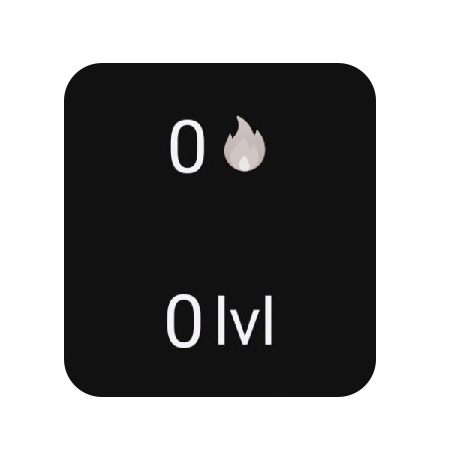
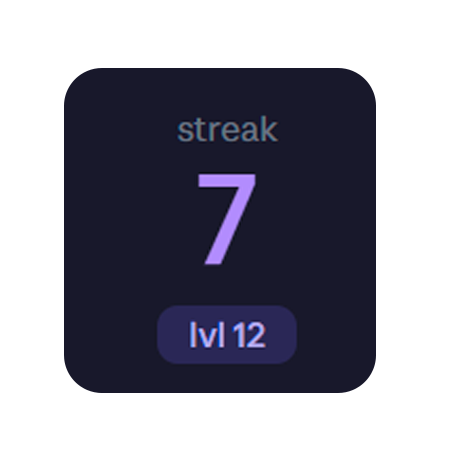
feat: добавлен перевод snackbar

diff --git a/src/shared/ui/Snackbar/ui/Snackbar.tsx b/src/shared/ui/Snackbar/ui/Snackbar.tsx
@@ -1,6 +1,7 @@
 import { View, StyleSheet } from 'react-native';
 import { Snackbar } from 'react-native-paper';
 import { useSnacbarControlStore } from '../model/snackbarControlStore';
+import i18n from '@/shared/config/i18n';
 import { useEffect } from 'react';
 
 export const AfterCompleteSnackbar = () => {
@@ -22,7 +23,7 @@ export const AfterCompleteSnackbar = () => {
         visible={isVisible}
         onDismiss={onDismissSnackBar}
         duration={3000}>
-        Задача успешно завершена!
+        {i18n.t('snackbar.taskCompleted')}
       </Snackbar>
     </View>
   );

diff --git a/src/shared/config/i18n/ru.ts b/src/shared/config/i18n/ru.ts
@@ -76,6 +76,10 @@ export default {
     locked: "Заблокировано",
   },
 
+  snackbar: {
+    taskCompleted: "Задача успешно завершена!",
+  },
+
   timer: {
     paused: "пауза",
     remaining: "осталось",

diff --git a/src/shared/config/i18n/en.ts b/src/shared/config/i18n/en.ts
@@ -74,6 +74,10 @@ export default {
     locked: "Locked",
   },
 
+  snackbar: {
+    taskCompleted: "Task completed successfully!",
+  },
+
   timer: {
     paused: "paused",
     remaining: "remaining",
